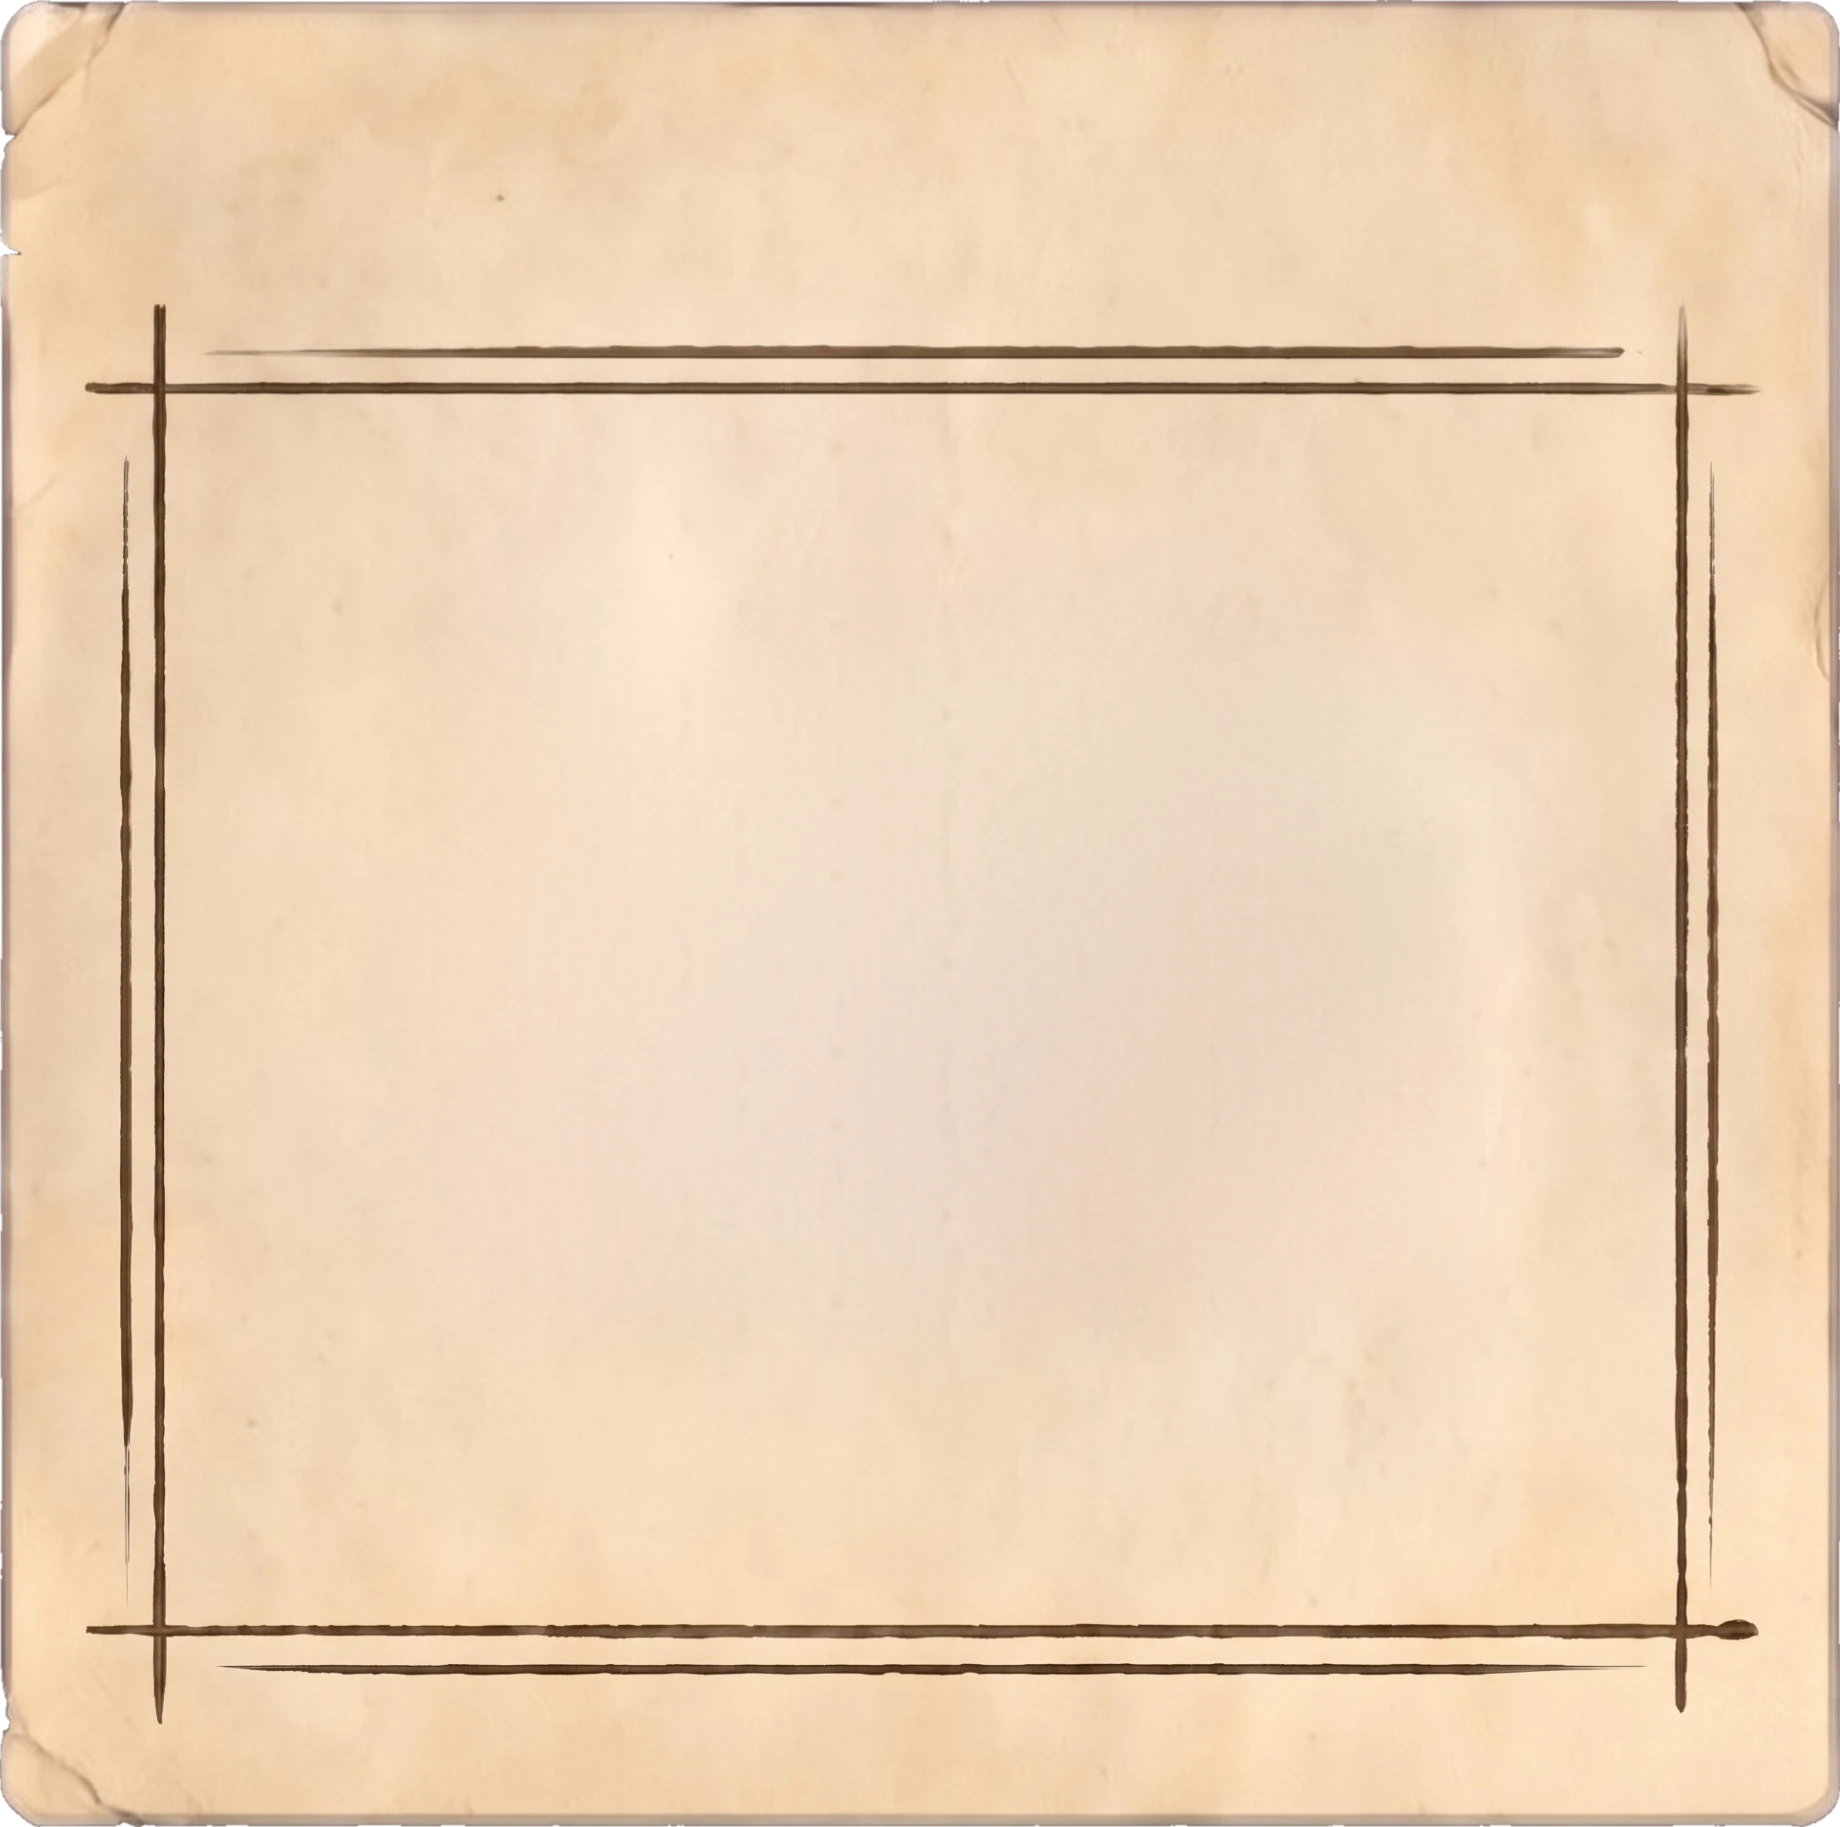
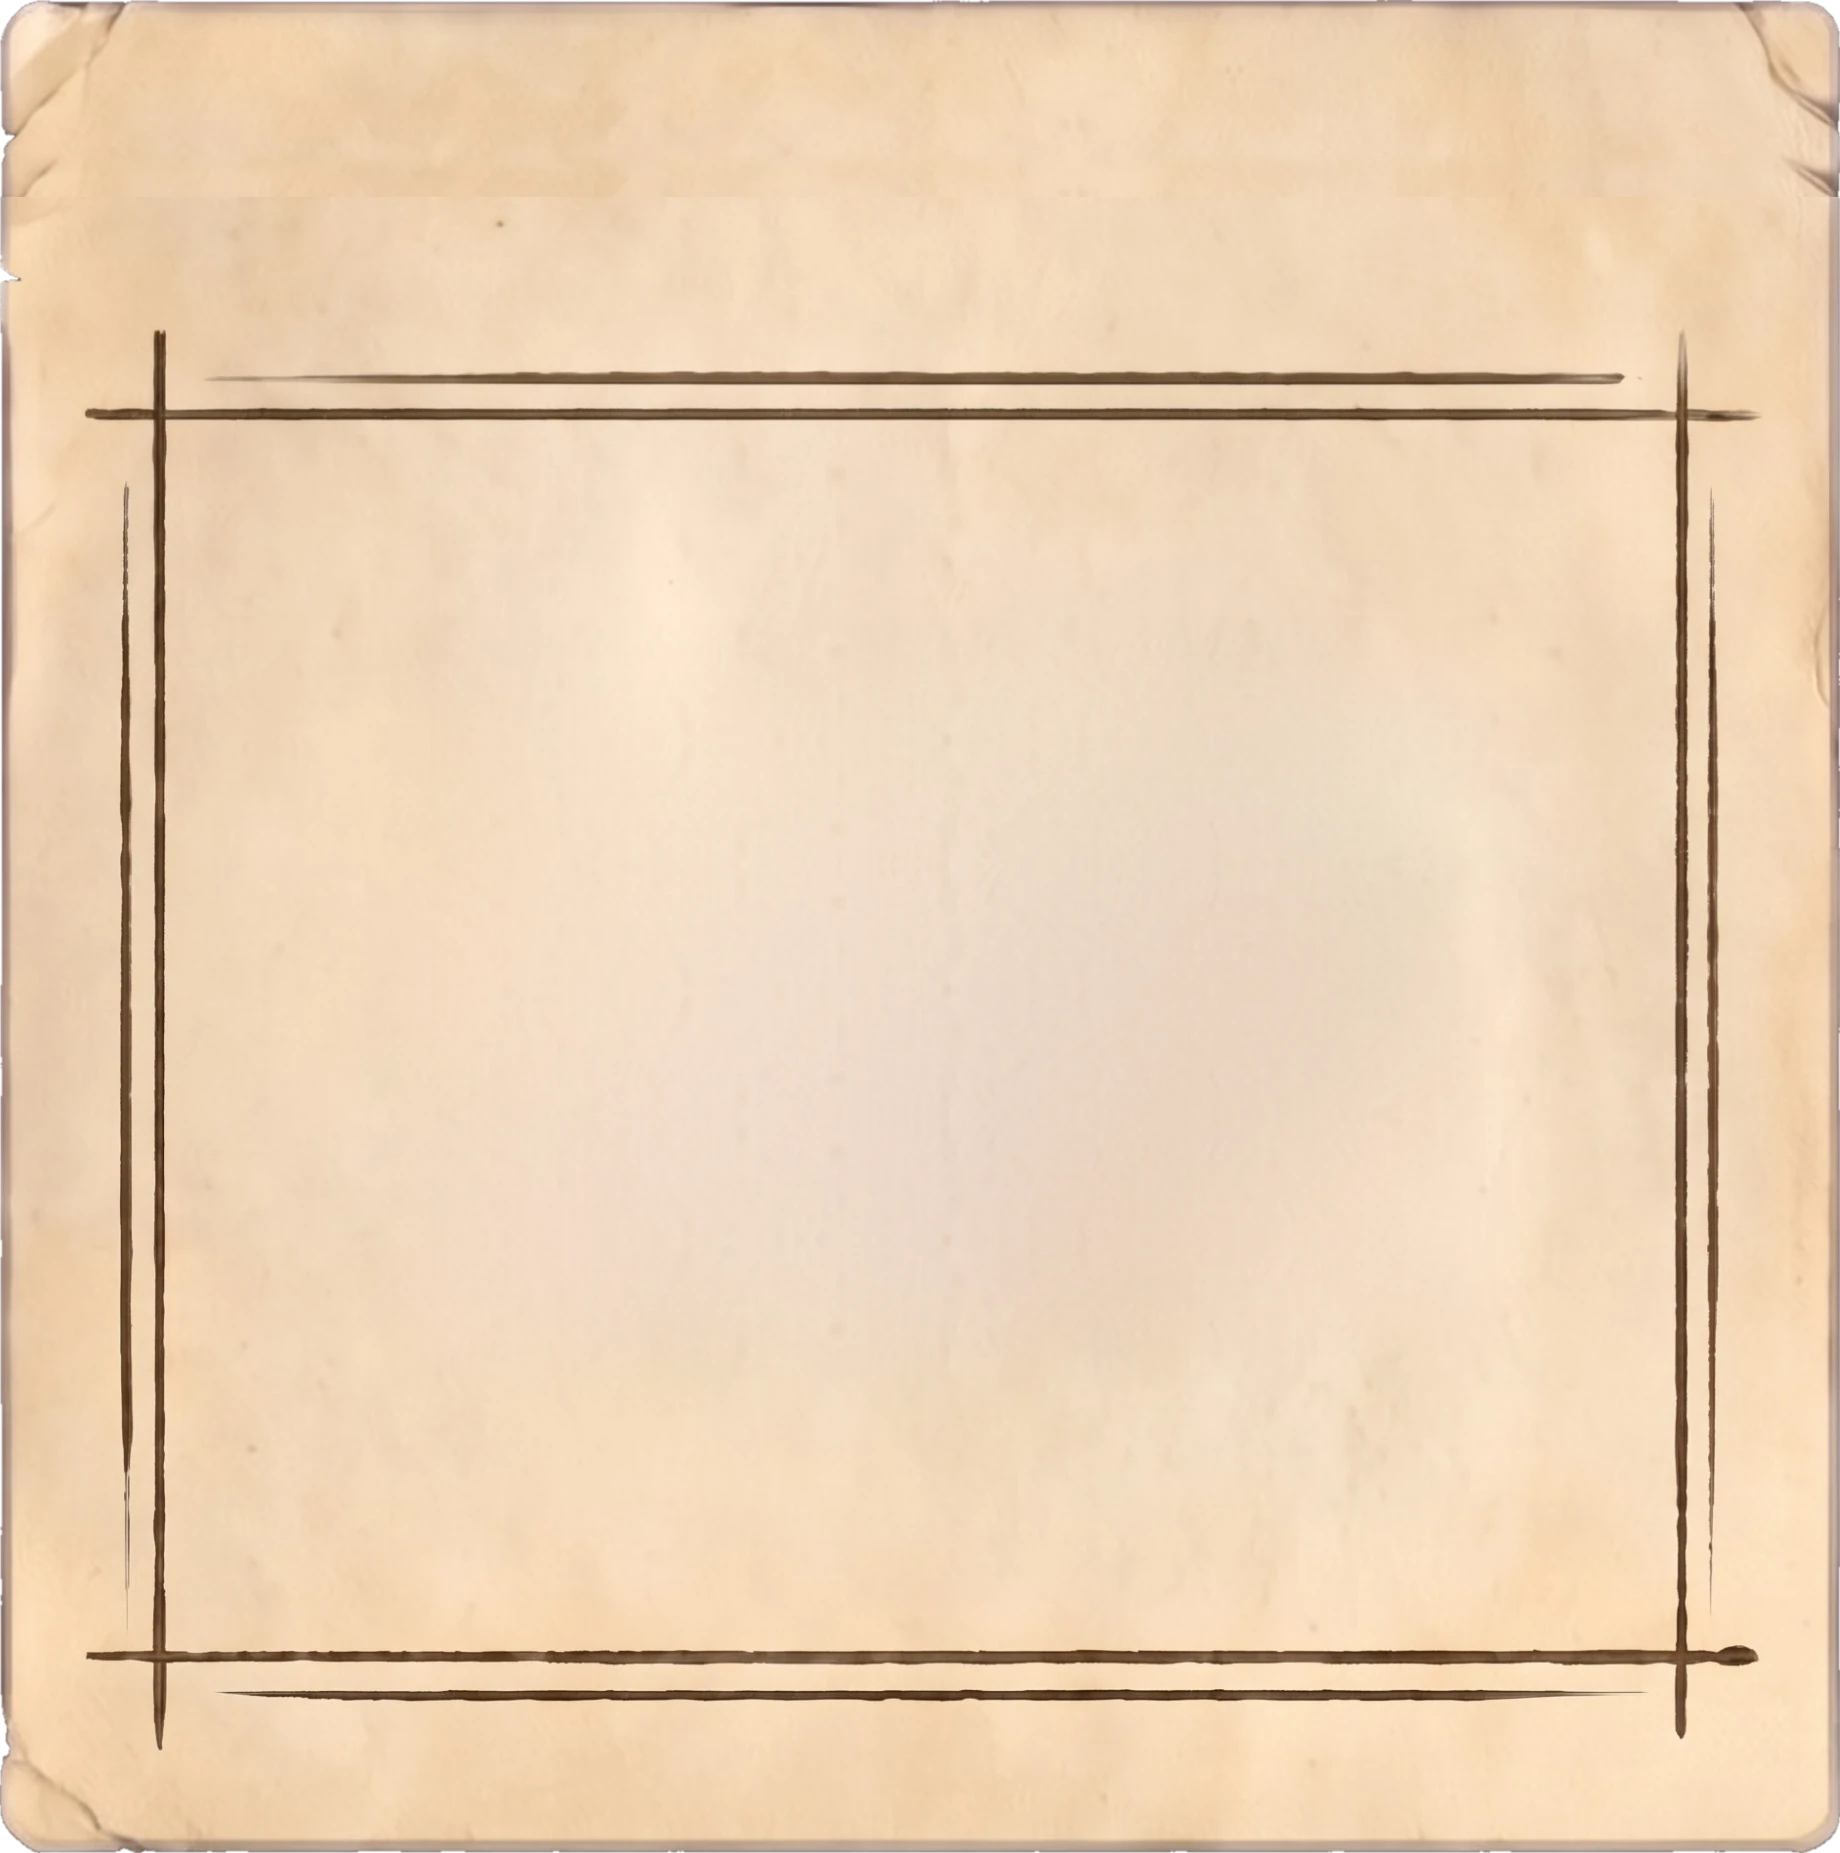
fix: titulos de secao com o mesmo tamanho (1,1 rem); folha da arma com mais papel no topo (R-UI-19)

diff --git a/src/web/style.css b/src/web/style.css
@@ -4477,11 +4477,11 @@ html[data-ui="v2"] #app[data-tab="perfil"] .cc-lbl, html[data-ui="v2"] #app[data
 html[data-ui="v2"] #app[data-tab="perfil"] .crest-def .dc-val { top: 2.1rem; color: #3a2a14; }
 html[data-ui="v2"] #app[data-tab="perfil"] .crest-def .dc-lbl { top: 4.1rem; }
 /* arma: o lugar do item é a moldura de tinta da folha */
-html[data-ui="v2"] #app[data-tab="perfil"] .weapon-box { position: relative; padding: 0; background: none; border: 0; border-radius: 0; aspect-ratio: 1840 / 1827; }
+html[data-ui="v2"] #app[data-tab="perfil"] .weapon-box { position: relative; padding: 0; background: none; border: 0; border-radius: 0; aspect-ratio: 1840 / 1853; }
 html[data-ui="v2"] #app[data-tab="perfil"] .weapon-box::before { inset: 0; background-image: url("/assets/ficha/a-arma.webp"); }
 html[data-ui="v2"] #app[data-tab="perfil"] .weapon-box .panel-header-banner { position: absolute; top: 0.75rem; left: 1.5rem; margin: 0; padding: 0; border: 0; }
 html[data-ui="v2"] #app[data-tab="perfil"] .weapon-box .panel-header-banner h3 { color: #3a2a14; }
-html[data-ui="v2"] #app[data-tab="perfil"] .weapon-box .weapon-slot { position: absolute; left: 7.17%; right: 7.17%; top: 21.13%; bottom: 8.98%; width: auto; height: auto; aspect-ratio: auto; background: none; border: 0; outline: 0; }
+html[data-ui="v2"] #app[data-tab="perfil"] .weapon-box .weapon-slot { position: absolute; left: 7.17%; right: 7.17%; top: 23.31%; bottom: 7.77%; width: auto; height: auto; aspect-ratio: auto; background: none; border: 0; outline: 0; }
 /* atributos: cartão rígido com 4 linhas; o + fica dentro do contorno desenhado */
 html[data-ui="v2"] #app[data-tab="perfil"] .profile-stats-panel.compact { aspect-ratio: 1262 / 426; background: none; border: 0; padding: 0; }
 html[data-ui="v2"] #app[data-tab="perfil"] .profile-stats-panel.compact::before { inset: 0; background-image: url("/assets/ficha/a-cartao.webp"); }
@@ -4554,4 +4554,6 @@ html[data-ui="v2"] #app[data-tab="perfil"] .weapon-slot-art.empty-weapon { backg
 html[data-ui="v2"] #app[data-tab="perfil"] .weapon-slot-art.empty-weapon > * { display: none; }
 /* a coluna da arma cabe na altura do Equipamento (placa 6,6 + vão + folha 13,9 <= 20,95 rem) e o título da arma é um pouco menor, para respirar acima da moldura */
 html[data-ui="v2"] #app[data-tab="perfil"] .profile-weapon-panel { gap: 0.4rem; }
-html[data-ui="v2"] #app[data-tab="perfil"] .weapon-box .panel-header-banner h3 { font-size: 1rem; }
+html[data-ui="v2"] #app[data-tab="perfil"] .defense-crest { height: 6.4rem; }
+/* os 3 títulos de seção (EQUIPAMENTO, ARMA, MALA) têm o mesmo tamanho: 1,1 rem */
+html[data-ui="v2"] #app[data-tab="perfil"] .profile-gear-panel .panel-header-banner h3, html[data-ui="v2"] #app[data-tab="perfil"] .weapon-box .panel-header-banner h3 { font-size: 1.1rem; }

diff --git a/tests/unit/fichaNova.test.ts b/tests/unit/fichaNova.test.ts
@@ -203,7 +203,7 @@ describe('Ficha nova em teste (R-FICHA-ARTE-1)', () => {
     expect(css).toMatch(/#app\[data-tab="perfil"\] \.hud-avatar-thumb \{ box-sizing: border-box; padding: 1\.7rem 1\.5rem 3\.3rem 2\.1rem;/);
     expect(css).toMatch(/\.hud-player-info::before \{ left: 0; right: 0; top: -1\.9rem; bottom: 0; background-image: url\("\/assets\/ficha\/a-nota\.webp"\); \}/);
     expect(css).toMatch(/\.defense-crest::before \{ inset: 0; background-image: url\("\/assets\/ficha\/a-placa\.webp"\); \}/);
-    expect(css).toMatch(/\.weapon-box \{ position: relative; padding: 0; background: none; border: 0; border-radius: 0; aspect-ratio: 1840 \/ 1827; \}/);
+    expect(css).toMatch(/\.weapon-box \{ position: relative; padding: 0; background: none; border: 0; border-radius: 0; aspect-ratio: 1840 \/ 1853; \}/);
     expect(css).toMatch(/\.profile-stats-panel\.compact \{ aspect-ratio: 1262 \/ 426; background: none; border: 0; padding: 0; \}/);
   });
 
@@ -251,14 +251,14 @@ describe('Ficha nova em teste (R-FICHA-ARTE-1)', () => {
 
   it('folha da Arma com a pistola de placeholder, que some com arma equipada (R-UI-19)', () => {
     for (const n of ['a-arma', 'a-arma-vazia']) expect(existsSync(`public/assets/ficha/${n}.webp`)).toBe(true);
-    expect(css).toMatch(/\.weapon-box \{ position: relative; padding: 0; background: none; border: 0; border-radius: 0; aspect-ratio: 1840 \/ 1827; \}/);
-    expect(css).toMatch(/\.weapon-box \.weapon-slot \{ position: absolute; left: 7\.17%; right: 7\.17%; top: 21\.13%; bottom: 8\.98%;/);
+    expect(css).toMatch(/\.weapon-box \{ position: relative; padding: 0; background: none; border: 0; border-radius: 0; aspect-ratio: 1840 \/ 1853; \}/);
+    expect(css).toMatch(/\.weapon-box \.weapon-slot \{ position: absolute; left: 7\.17%; right: 7\.17%; top: 23\.31%; bottom: 7\.77%;/);
     expect(css).toMatch(/\.weapon-slot-art\.empty-weapon \{ background: url\("\/assets\/ficha\/a-arma-vazia\.webp"\) 51% 40\.7% \/ 68\.02% 56\.3% no-repeat;/);
     expect(css).toMatch(/\.weapon-slot-art\.empty-weapon > \* \{ display: none; \}/);
   });
 
   it('coluna da arma cabe na altura do Equipamento e o título ARMA respira (R-UI-19)', () => {
     expect(css).toMatch(/#app\[data-tab="perfil"\] \.profile-weapon-panel \{ gap: 0\.4rem; \}/);
-    expect(css).toMatch(/\.weapon-box \.panel-header-banner h3 \{ font-size: 1rem; \}/);
+    expect(css).toMatch(/\.weapon-box \.panel-header-banner h3 \{ font-size: 1\.1rem; \}/);
   });
 });

diff --git a/tools/arma_recorte.py b/tools/arma_recorte.py
@@ -63,11 +63,14 @@ wgt = np.clip(np.minimum(ramp_y[:, None], ramp_x[None, :]), 0, 1)[..., None]
 clean[ry0:ry1, rx0:rx1] = patch * wgt + clean[ry0:ry1, rx0:rx1] * (1 - wgt)
 
 # --- corta papel liso do topo para a proporção do painel -------------------------------------------------------------
-CUT = (260, 262)
-F = 36
+ADD = 44   # papel liso a MAIS no topo (copiado da faixa lisa de cima), para o título respirar
+F = 20
+band = clean[170:170 + ADD]
+a_ = clean[:260]
 ramp = np.linspace(0, 1, F)[:, None, None]
-blend = clean[CUT[0] - F:CUT[0]] * (1 - ramp) + clean[CUT[1] - F:CUT[1]] * ramp
-img = np.vstack([clean[:CUT[0] - F], blend, clean[CUT[1]:]])
+top_blend = a_[-F:] * (1 - ramp) + band[:F] * ramp
+img = np.vstack([a_[:-F], top_blend, band[F:], clean[260:]])
+cy = -ADD
 Lp = img.mean(axis=2)
 paper = ndi.binary_fill_holes(ndi.binary_opening(Lp > 70, iterations=2))
 lab, n = ndi.label(paper)
@@ -81,5 +84,4 @@ Image.fromarray(rgba, "RGBA").save("public/assets/ficha/a-arma.webp", "WEBP", qu
 Image.fromarray(np.clip(img, 0, 255).astype(np.uint8)[y0:y1, x0:x1]).save("docs/arte/arma_ajustada.png")
 sw_, sh_ = x1 - x0, y1 - y0
 print("folha", sw_, sh_, "proporção", round(sw_ / sh_, 3))
-cy = CUT[1] - CUT[0]
 print("miolo da moldura (slot): left %.2f%% right %.2f%% top %.2f%% bottom %.2f%%" % ((FX0 - x0) / sw_ * 100, (sw_ - (FX1 - x0)) / sw_ * 100, (FY0 - cy - y0) / sh_ * 100, (sh_ - (FY1 - cy - y0)) / sh_ * 100))

diff --git a/docs/REGRAS_DO_JOGO.md b/docs/REGRAS_DO_JOGO.md
@@ -137,7 +137,7 @@ Observação: com 7 minutos por ponto, uma missão de 15 energia custa 1h45 de e
 | R-UI-16 | **Seção A da Ficha com a arte de folhas** | O **retrato** (folhas empilhadas com clipe), a **nota do nome com a aba da família**, a **placa de classe e defesa**, a **folha da arma** e o **cartão dos atributos** usam a arte gerada pela IA e escolhida pelo fundador em 2026-11-13 (`public/assets/ficha/a-*.webp`, recortadas de `docs/arte/secaoA/ajustada.png` por `tools/secaoA_recortes.py`). A arte só dá a forma; **todo texto, número, foto e item continuam em código**, nos mesmos tamanhos de antes. A nota fica **atrás** do retrato. O restante da Ficha (equipamento, Mala, área de duelo, barra de abas) **ainda não** usa a identidade de folhas. | `src/web/style.css` (bloco R-UI-16), `public/assets/ficha/a-*.webp` | `tests/unit/fichaNova.test.ts` |
 | R-UI-17 | **Seção B (Equipamento) com a folha de 8 molduras** | O painel de **Equipamento** é uma **folha de papel** gerada por IA e escolhida pelo fundador em 2026-11-13 (`public/assets/ficha/b-equipamento.webp`, preparada por `tools/secaoB_recorte.py`: fundo transparente e faixas de papel liso cortadas para a proporção do painel, sem tocar nas molduras). Tem **8 molduras de tinta** (4 colunas x 2 linhas) com o **desenho fantasma de cada item** (chapéu, colete, calça, calçado, trevo, gato, anel, carro). O código só escreve o título (com respiro em cima e embaixo) e põe o item equipado; **os slots não mostram o nome do tipo de item** (o desenho fantasma já diz qual é); o **item equipado cobre o desenho fantasma com um retalho de papel**. As molduras da arte têm proporção ~1,30:1 (quase 4:3). O painel tem a **proporção exata da folha (2000:927), sem esticar**, e o espaço a mais vem da seção de baixo (vão de 1,3 rem entre as duas fileiras). | `src/web/style.css` (bloco R-UI-17), `public/assets/ficha/b-equipamento.webp` | `tests/unit/fichaNova.test.ts` |
 | R-UI-18 | **Seção C (Mala) com a folha de 20 molduras** | A **Mala** é uma folha de papel gerada por IA e aprovada pelo fundador em 2026-11-13 (`public/assets/ficha/c-mala.webp`, preparada por `tools/secaoMala_recorte.py`: fundo transparente, margens laterais lisas cortadas para a proporção do painel e **mais respiro embaixo**, sem tocar nas molduras). São **20 molduras em 5 x 4**, 4:3, **coladas** (vão de ~0,3 rem), com as linhas dos cantos curtas, e uma **barra de scroll fina e reta** desenhada à direita (hoje só desenho: o scroll funcional entra quando houver mais de 20 slots). A folha tem proporção 1,59:1, sem esticar. A Mala foi **ampliada em 9%, mantendo a proporção** (49,3 x 30,9 rem), até ~1,1 rem da barra de abas; o espaço vem da **área de duelo**, que ficou com 41,1 rem de largura (antes 45,2). O topo da Ficha não mudou. Pedido do fundador em 2026-11-13. Os **10 slots vazios** têm uma **malinha desenhada** bem fraca, **sem o texto "VAZIO"**; o **item não tem fundo**: ele fica **colado em cima da folha** (leve inclinação, borda clara e sombra), **sem mexer ao passar o mouse**; linhas e colunas têm tamanho fixo, então colocar itens **nunca muda o tamanho nem a posição dos slots**, e o item fica sempre **centralizado**; a malinha só aparece nos slots vazios (é uma peça à parte, `c-mala-vazia.webp`). Os **slots bloqueados** mostram um **cadeado fechado** (sprite `c-cadeado-fechado.webp`) que, **ao passar o mouse**, **troca pelo cadeado aberto** (sprite `c-cadeado-aberto.webp`, o do meio da 1ª fileira de cadeados) com um pequeno brilho dourado e uma saltinho; a dica "Mala maior" continua. A 4ª fileira ("em breve") só mostra o cadeado, sem efeito. | `src/web/style.css` (bloco R-UI-18), `public/assets/ficha/c-*.webp` | `tests/unit/fichaNova.test.ts` |
-| R-UI-19 | **Folha da Arma com a pistola de placeholder** | A **folha da Arma** foi regerada pela IA (aprovada pelo fundador em 2026-11-13; `public/assets/ficha/a-arma.webp`, preparada por `tools/arma_recorte.py`: fundo transparente, sem cortar o papel do topo para a proporção do painel, 1,007:1 (papel do topo mantido inteiro, para o título ARMA respirar acima da moldura)). O placeholder (antes, espadas cruzadas) é uma **pistola desenhada em traço fino** (sprite `a-arma-vazia.webp`), no miolo da moldura; **some quando há arma equipada**. | `src/web/style.css` (bloco R-UI-19), `public/assets/ficha/a-arma*.webp` | `tests/unit/fichaNova.test.ts` |
+| R-UI-19 | **Folha da Arma com a pistola de placeholder** | A **folha da Arma** foi regerada pela IA (aprovada pelo fundador em 2026-11-13; `public/assets/ficha/a-arma.webp`, preparada por `tools/arma_recorte.py`: fundo transparente, com papel do topo acrescentado para a proporção do painel, 0,993:1 (com 44 px de papel liso a mais no topo, para o título respirar); **os títulos de seção EQUIPAMENTO, ARMA e MALA têm exatamente o mesmo tamanho (1,1 rem)**). O placeholder (antes, espadas cruzadas) é uma **pistola desenhada em traço fino** (sprite `a-arma-vazia.webp`), no miolo da moldura; **some quando há arma equipada**. | `src/web/style.css` (bloco R-UI-19), `public/assets/ficha/a-arma*.webp` | `tests/unit/fichaNova.test.ts` |
 | R-MALA-11 | **Mala com 4 fileiras desenhadas (a 4ª ainda é só desenho)** | No Estilo 2 a Mala mostra 20 slots (5 x 4): 10 liberados, a fileira 3 trancada (comprável, como em R-MALA-10) e a fileira 4 trancada **só como desenho**, sem compra, porque o máximo real continua 15 e o preço de uma 2ª "mala maior" não foi definido. A área livre do equipamento de duelo tem a mesma altura da Mala (mesma altura da Mala, que tem slots 4:3 e título MALA e painel que tem o mesmo fundo e borda do Equipamento) | **Fundador, 2026-11-12** | `main.ts` (`BAG_DISPLAY_SLOTS`), `style.css` | `fichaNova.test.ts` |
 | R-OURO-3 | **Teto de ouro conferido pelo servidor** | O servidor recusa um save com ouro acima de 25 + 125 por nível acima do 1 + 30 por missão cumprida (o máximo que o jogo pode ter dado). Gastar sempre é aceito | Claude, 2026-11-11 | `src/shared/gold.ts` (`goldCap`), `rules.ts` (`validateSave`) | `gold.test.ts`, `server.test.ts` ("ouro acima do inicial é recusado") |
 | R-OURO-4 | **Compra de ouro com dinheiro real** | Vai existir, mas **ainda não será feita** (depende do pagamento, E-etapas). Quando existir, o teto de R-OURO-3 muda | **Fundador, 2026-11-11** | — (não implementado) | — |
